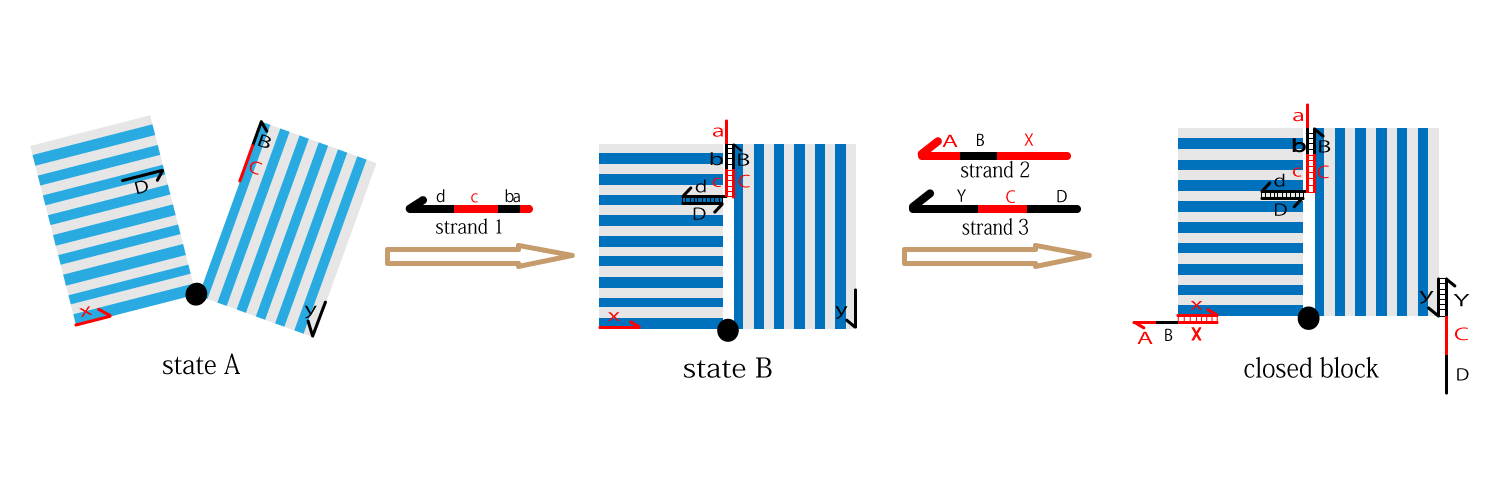
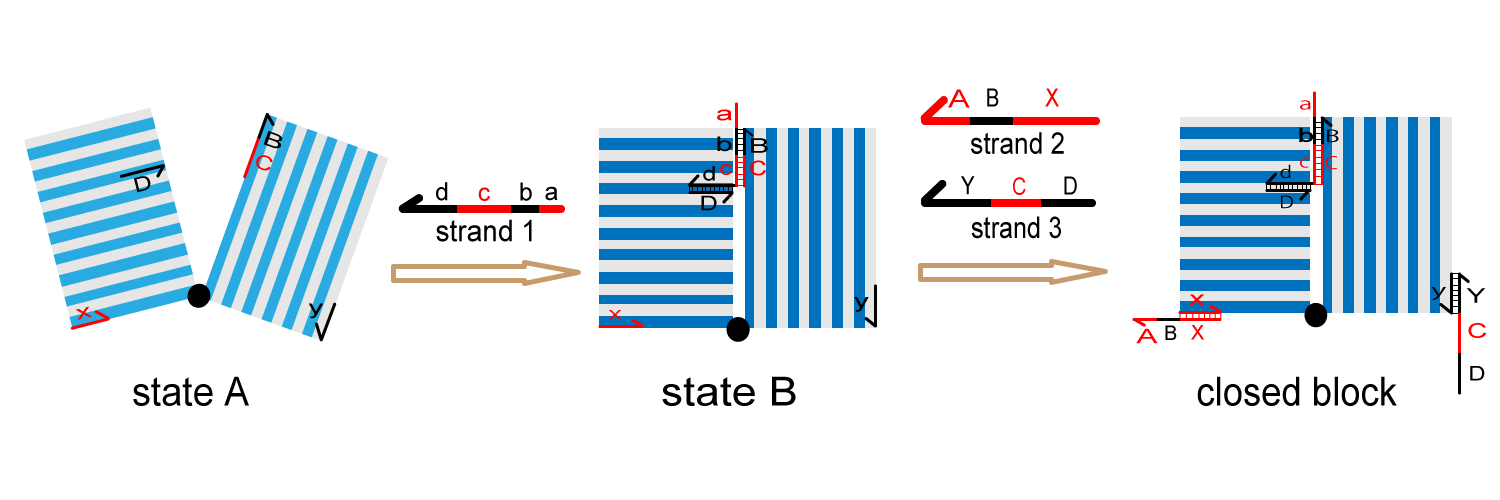
experiment画像の差し替え
文字を大きく

diff --git a/index.html b/index.html
@@ -248,7 +248,7 @@
                         (3) Purifying origami with PEG precipitation</p>
 
                         <figure id="fig4-1">
-                            <img src="./assets/fig1-zikkenn.png" width="400px">
+                            <img src="./assets/fig.4-1.png" width="400px">
                             <figcaption>Fig.4-1</figcaption>
                         </figure>
 
